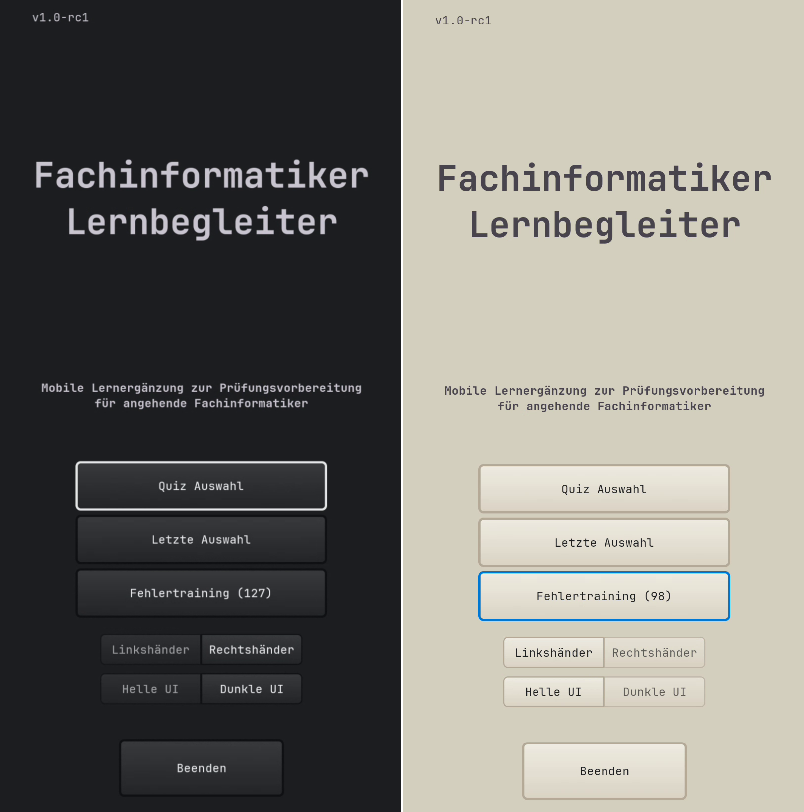
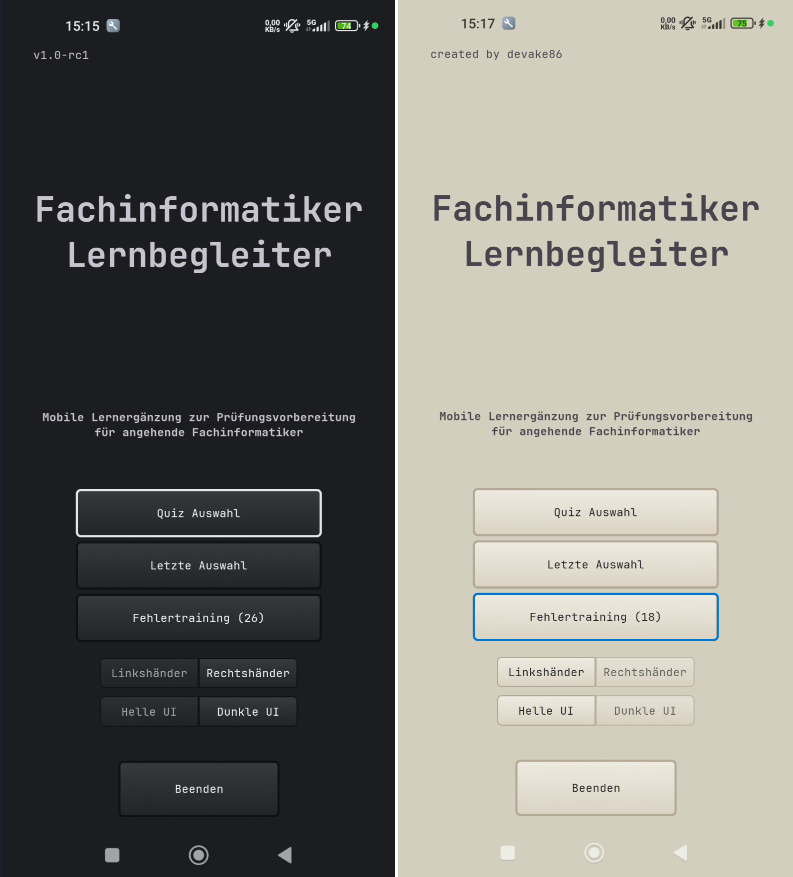
Update README and images

diff --git a/README.md b/README.md
@@ -12,11 +12,32 @@ Die Android-Version nutzt eine interne SQLite-Datenbank zur lokalen Speicherung 
 
 ## Screenshots
 
-Vorschau des Android-Hauptmenüs in Dark- und Light-Mode:
+<details open>
+<summary>Android-Hauptmenü in Dark- und Light-Mode anzeigen</summary>
 
-[![Android Hauptmenü Dark/Light](images/main_dark_light_android_v1.0-rc1.png)](images/main_dark_light_android_v1.0-rc1.png)
+[images/main_dark_light_android_v1.0-rc1.png](images/main_dark_light_android_v1.0-rc1.png)
 
 *Android-Hauptmenü in Dark- und Light-Mode mit Schnellzugriffen auf „Quiz Auswahl“, „Letzte Auswahl“ und „Fehlertraining“. (v1.0-rc1).*
+
+</details>
+
+<details>
+<summary>Light-Mode Menüflow anzeigen</summary>
+
+[images/menuflow_light_android_v1.0-rc1.png](images/menuflow_light_android_v1.0-rc1.png)
+
+*Beispielhafter Light-Mode-Menüflow vom Hauptmenü über Quiz Auswahl, Fragenfeld Auswahl und Fragenpaket Auswahl. (v1.0-rc1).*
+
+</details>
+
+<details>
+<summary>Dark-Mode Quizflow anzeigen</summary>
+
+[images/quizflow_dark_android_v1.0-rc1.png](images/quizflow_dark_android_v1.0-rc1.png)
+
+*Beispielhafter Dark-Mode-Quizflow mit Antwort Auswahl, Bestätigung, visuellem Feedback, Erklärung und Ergebnisbildschirm. (v1.0-rc1).*
+
+</details>
 
 ---
 